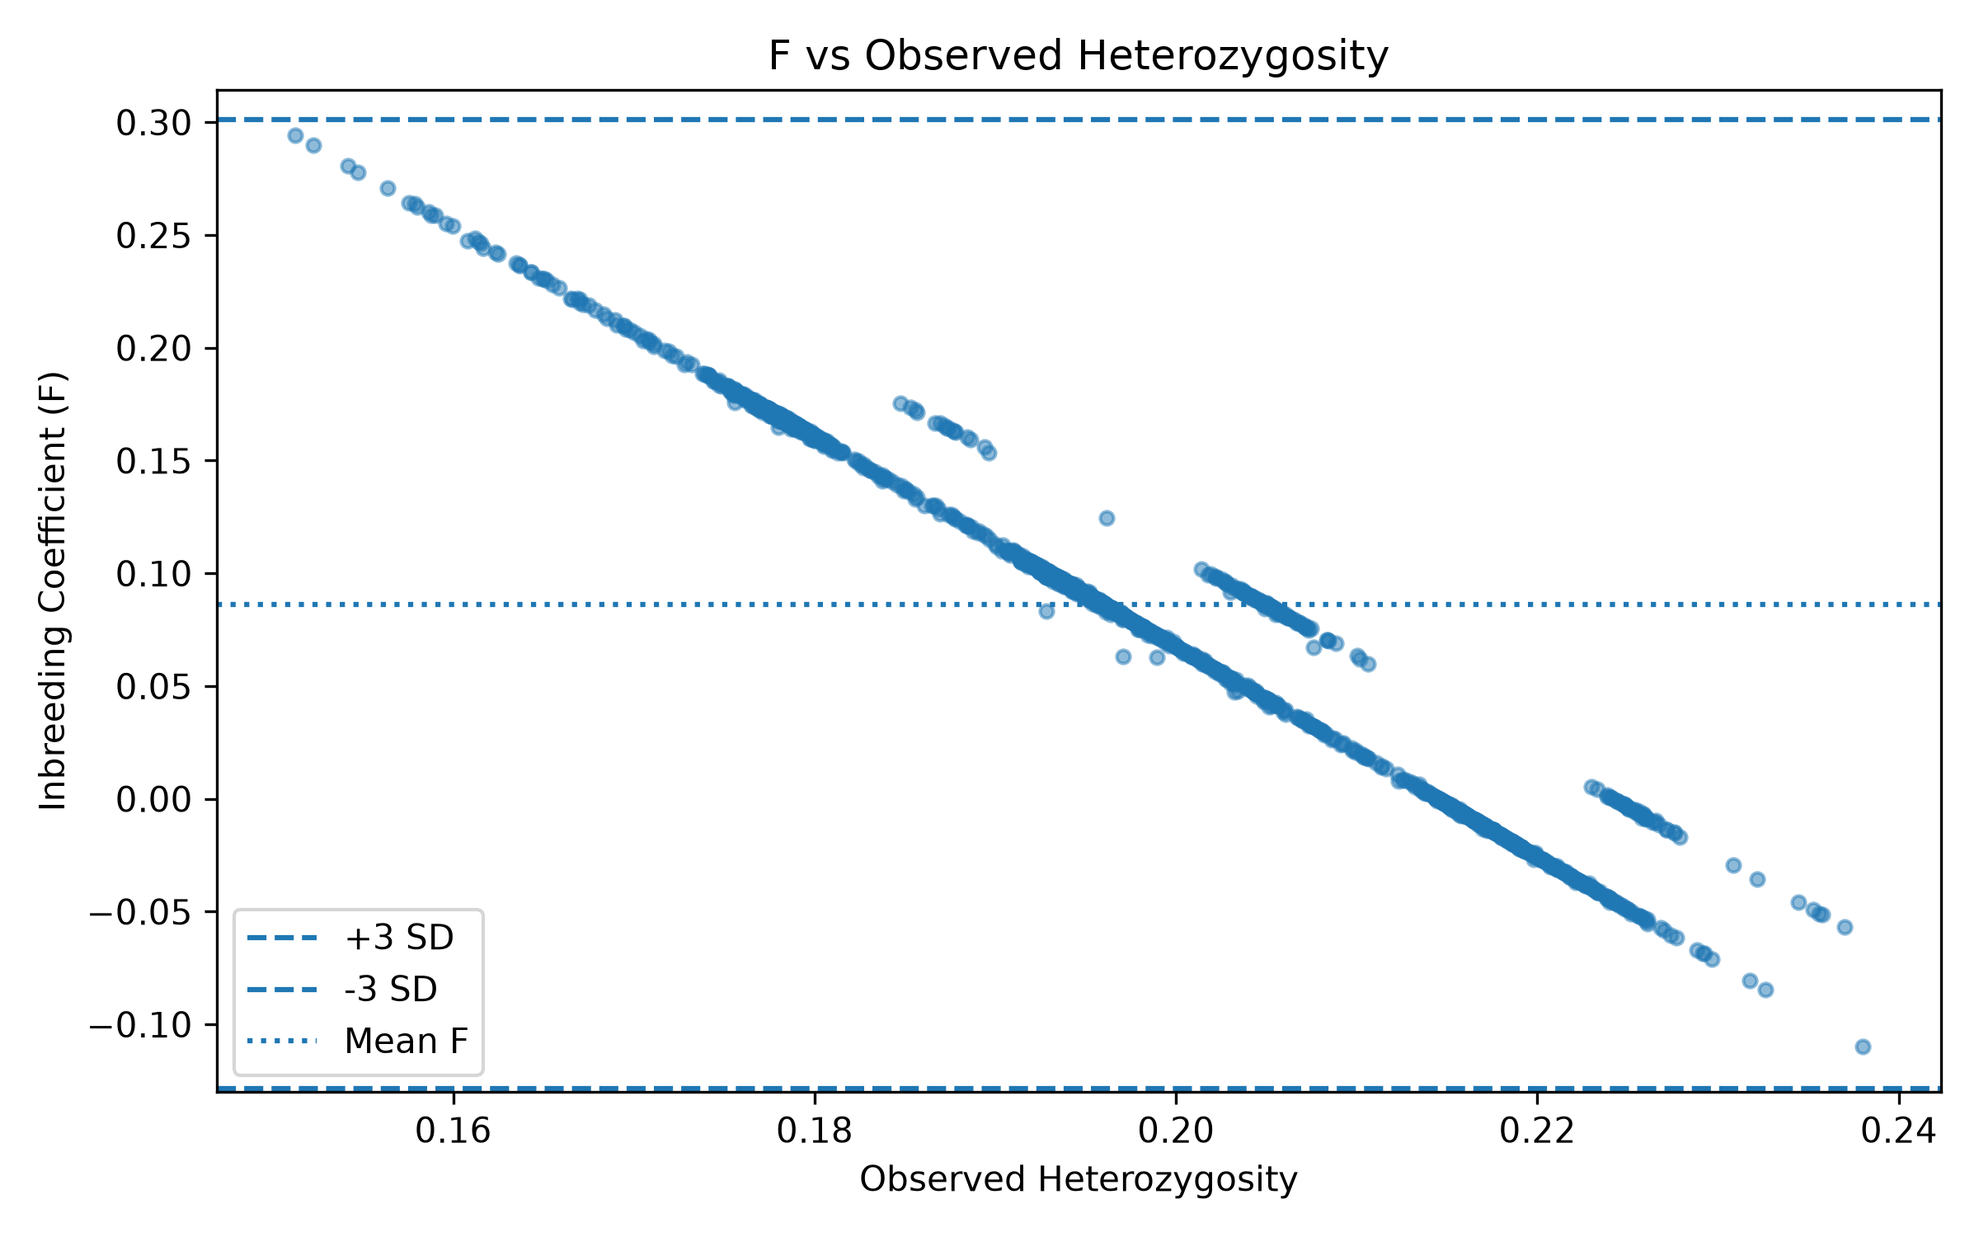
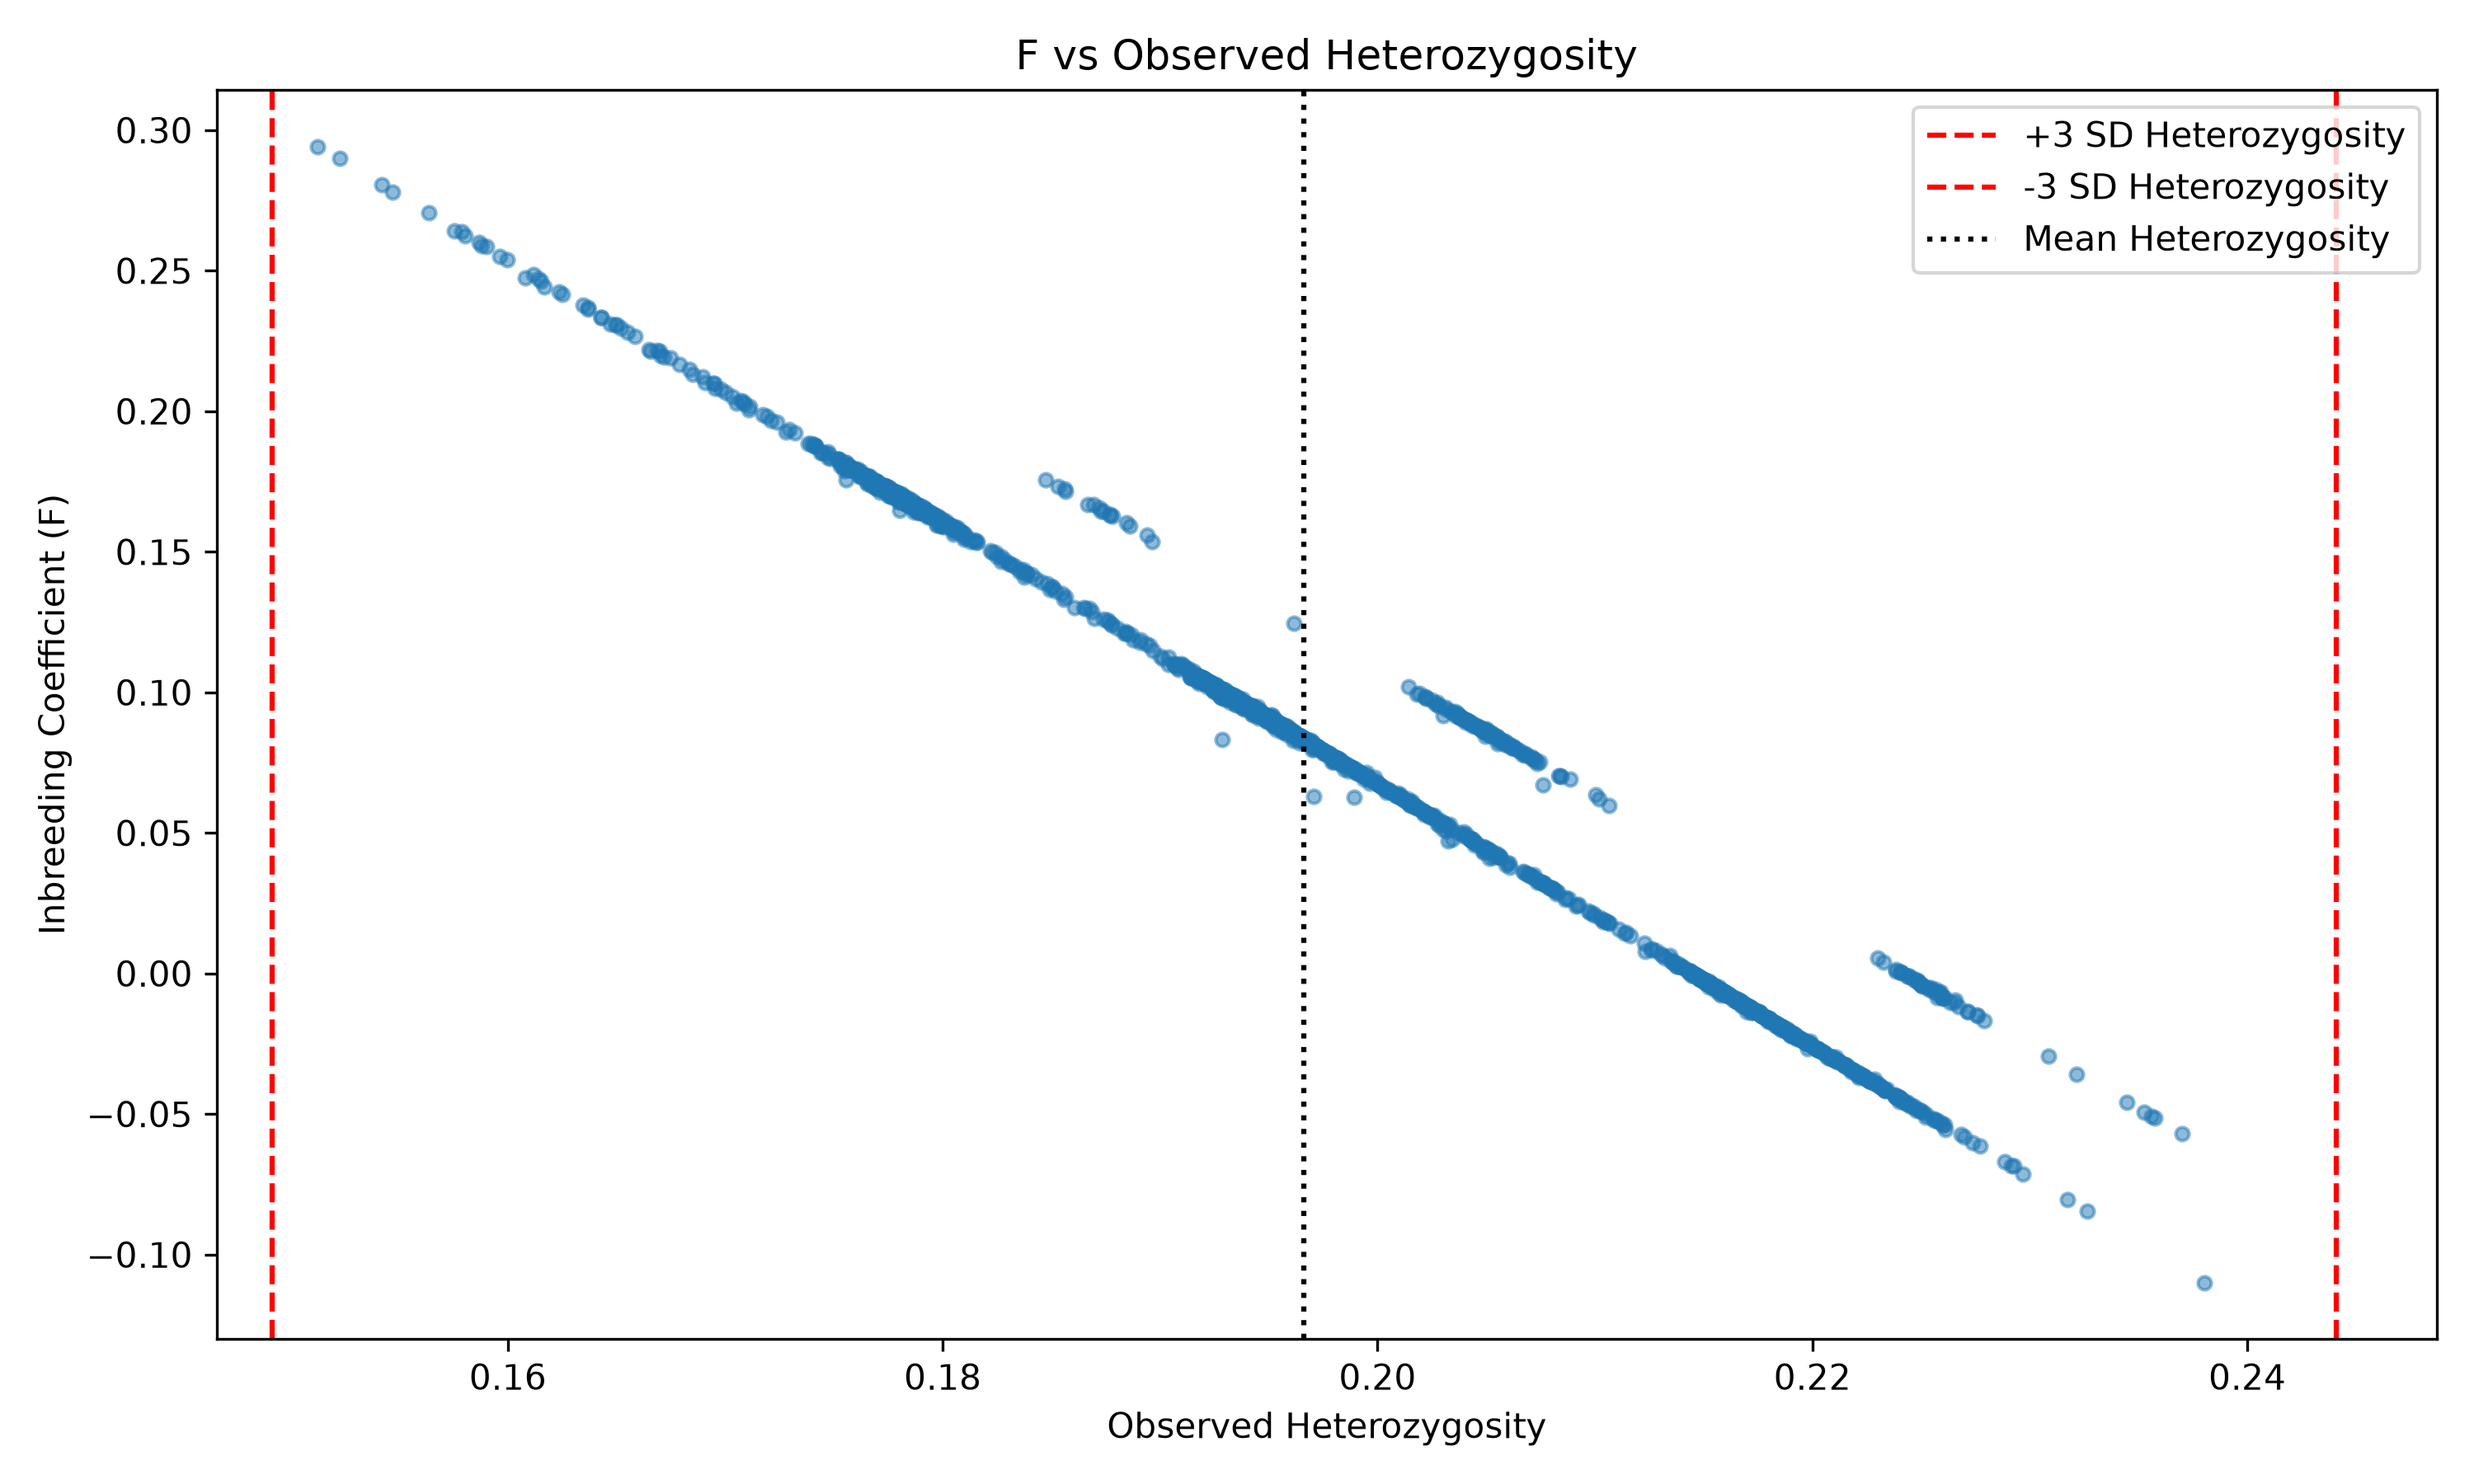
adjust the +-3std for the het

diff --git a/snp_array/scripts/QC/01_analyze_qc.py b/snp_array/scripts/QC/01_analyze_qc.py
@@ -179,31 +179,33 @@ summarize(
     het["F"]
 )
 
-# F outliers: Mean +/- 3 SD
 
-f_mean = het["F"].mean()
-f_std = het["F"].std()
+# Heterozygosity outliers: Mean +/- 3 SD
 
-lower = f_mean - 3 * f_std
-upper = f_mean + 3 * f_std
+het_mean = het["OBS_HET"].mean()
+het_std = het["OBS_HET"].std()
+
+lower = het_mean - 3 * het_std
+upper = het_mean + 3 * het_std
 
 outliers = het[
-    (het["F"] < lower) |
-    (het["F"] > upper)
+    (het["OBS_HET"] < lower) |
+    (het["OBS_HET"] > upper)
 ]
 
-add("\nF OUTLIERS (MEAN +/- 3 SD)")
-add(f"Mean F: {f_mean:.6f}")
-add(f"SD F: {f_std:.6f}")
+add("\nHETEROZYGOSITY OUTLIERS (MEAN +/- 3 SD)")
+add(f"Mean Heterozygosity: {het_mean:.6f}")
+add(f"SD Heterozygosity: {het_std:.6f}")
 add(f"Lower bound: {lower:.6f}")
 add(f"Upper bound: {upper:.6f}")
 add(f"Number of outliers: {len(outliers):,}")
 
 if not outliers.empty:
     add(
-        outliers[["FID", "IID", "F", "OBS_HET"]]
+        outliers[["FID", "IID", "OBS_HET", "F"]]
         .to_string(index=False)
     )
+
 
 
 # ============================================================
@@ -289,11 +291,10 @@ plt.savefig(PLOT_DIR / "03_missingness.png", dpi=300)
 plt.close()
 
 
-# ============================================================
-# PLOT 4: F VS OBSERVED HETEROZYGOSITY
-# ============================================================
 
-plt.figure(figsize=(8, 5))
+# PLOT 4: F VS OBSERVED HETEROZYGOSITY
+
+plt.figure(figsize=(10, 6))
 
 plt.scatter(
     het["OBS_HET"],
@@ -302,12 +303,23 @@ plt.scatter(
     s=15
 )
 
-plt.axhline(upper, linestyle="--", label="+3 SD")
-plt.axhline(lower, linestyle="--", label="-3 SD")
-plt.axhline(f_mean, linestyle=":", label="Mean F")
+# Heterozygosity thresholds: vertical lines
+plt.axvline(
+    upper, linestyle="--",
+    color="red", label="+3 SD Heterozygosity"
+)
+
+plt.axvline(
+    lower, linestyle="--",
+    color="red", label="-3 SD Heterozygosity"
+)
+
+plt.axvline(
+    het_mean, linestyle=":",
+    color="black", label="Mean Heterozygosity"
+)
 
 if not outliers.empty:
-
     plt.scatter(
         outliers["OBS_HET"],
         outliers["F"],
@@ -324,6 +336,7 @@ plt.tight_layout()
 
 plt.savefig(PLOT_DIR / "04_heterozygosity.png", dpi=300)
 plt.close()
+
 
 
 # ============================================================
